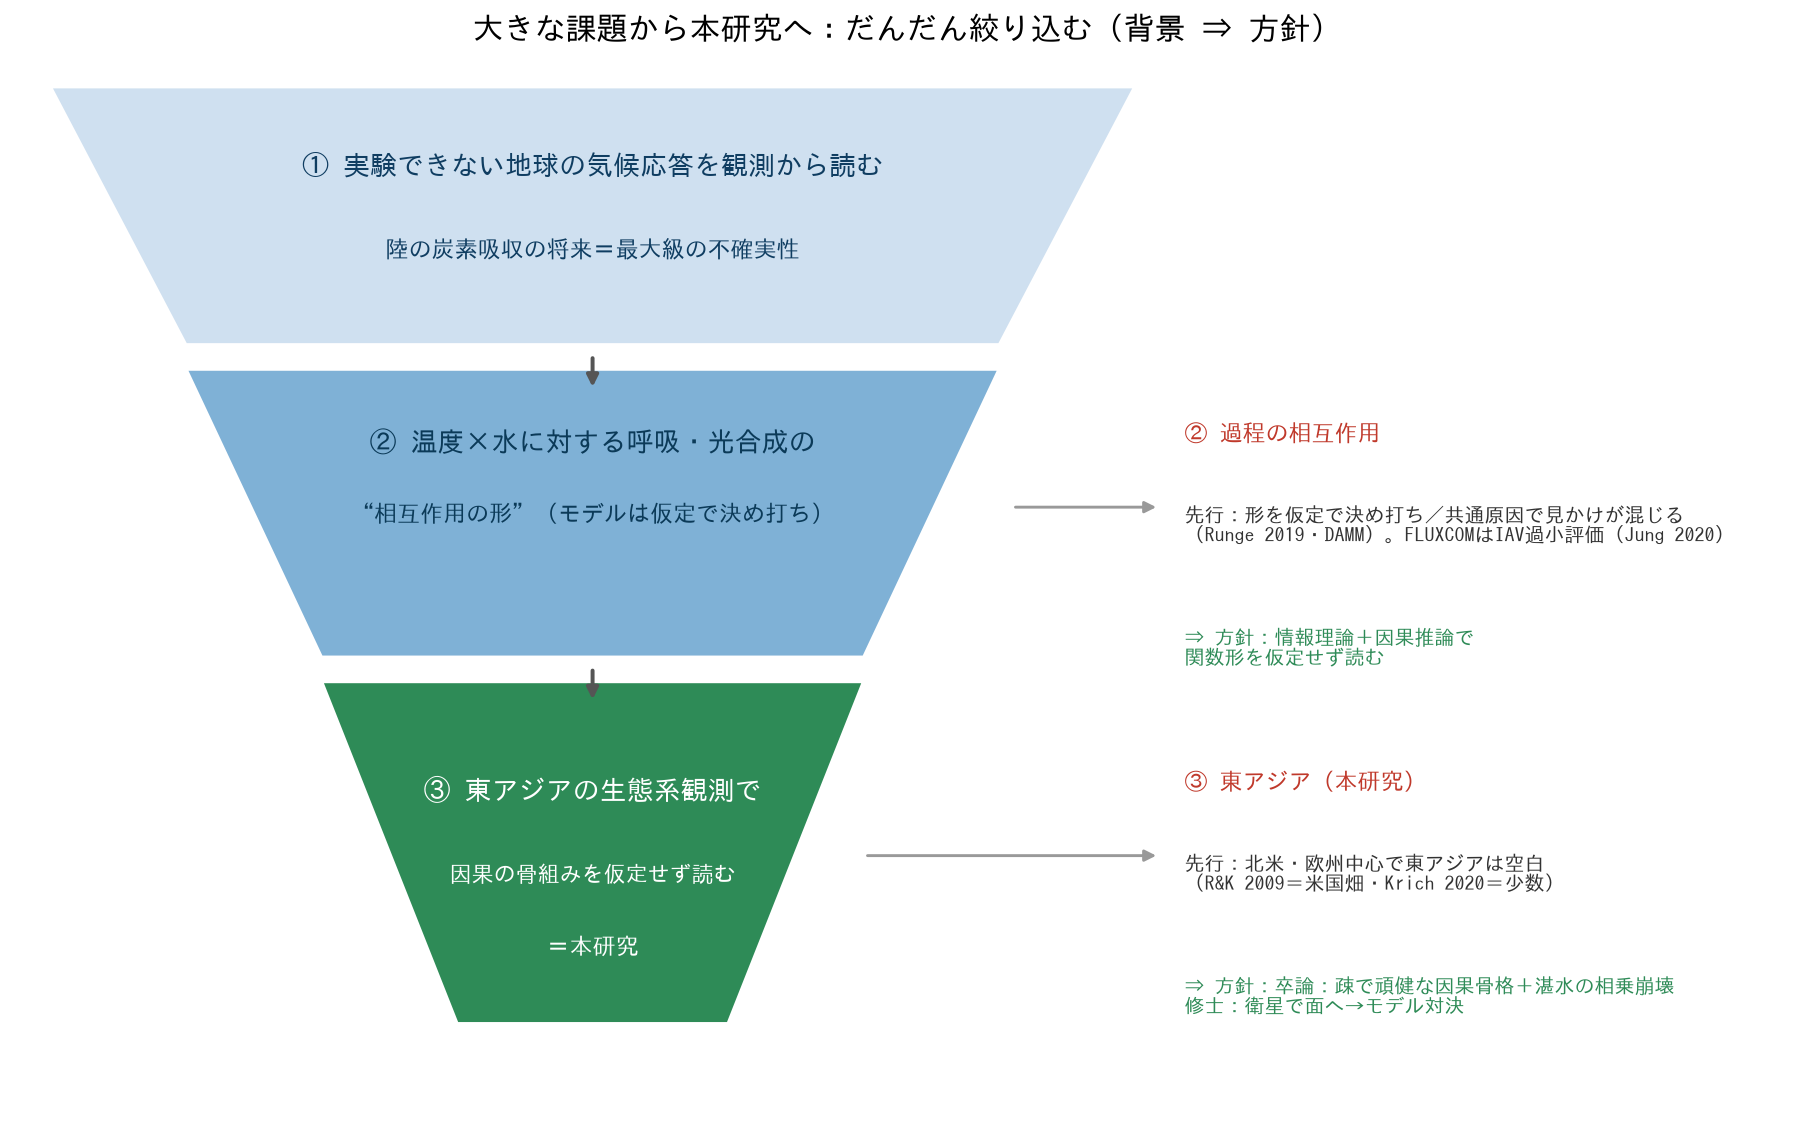
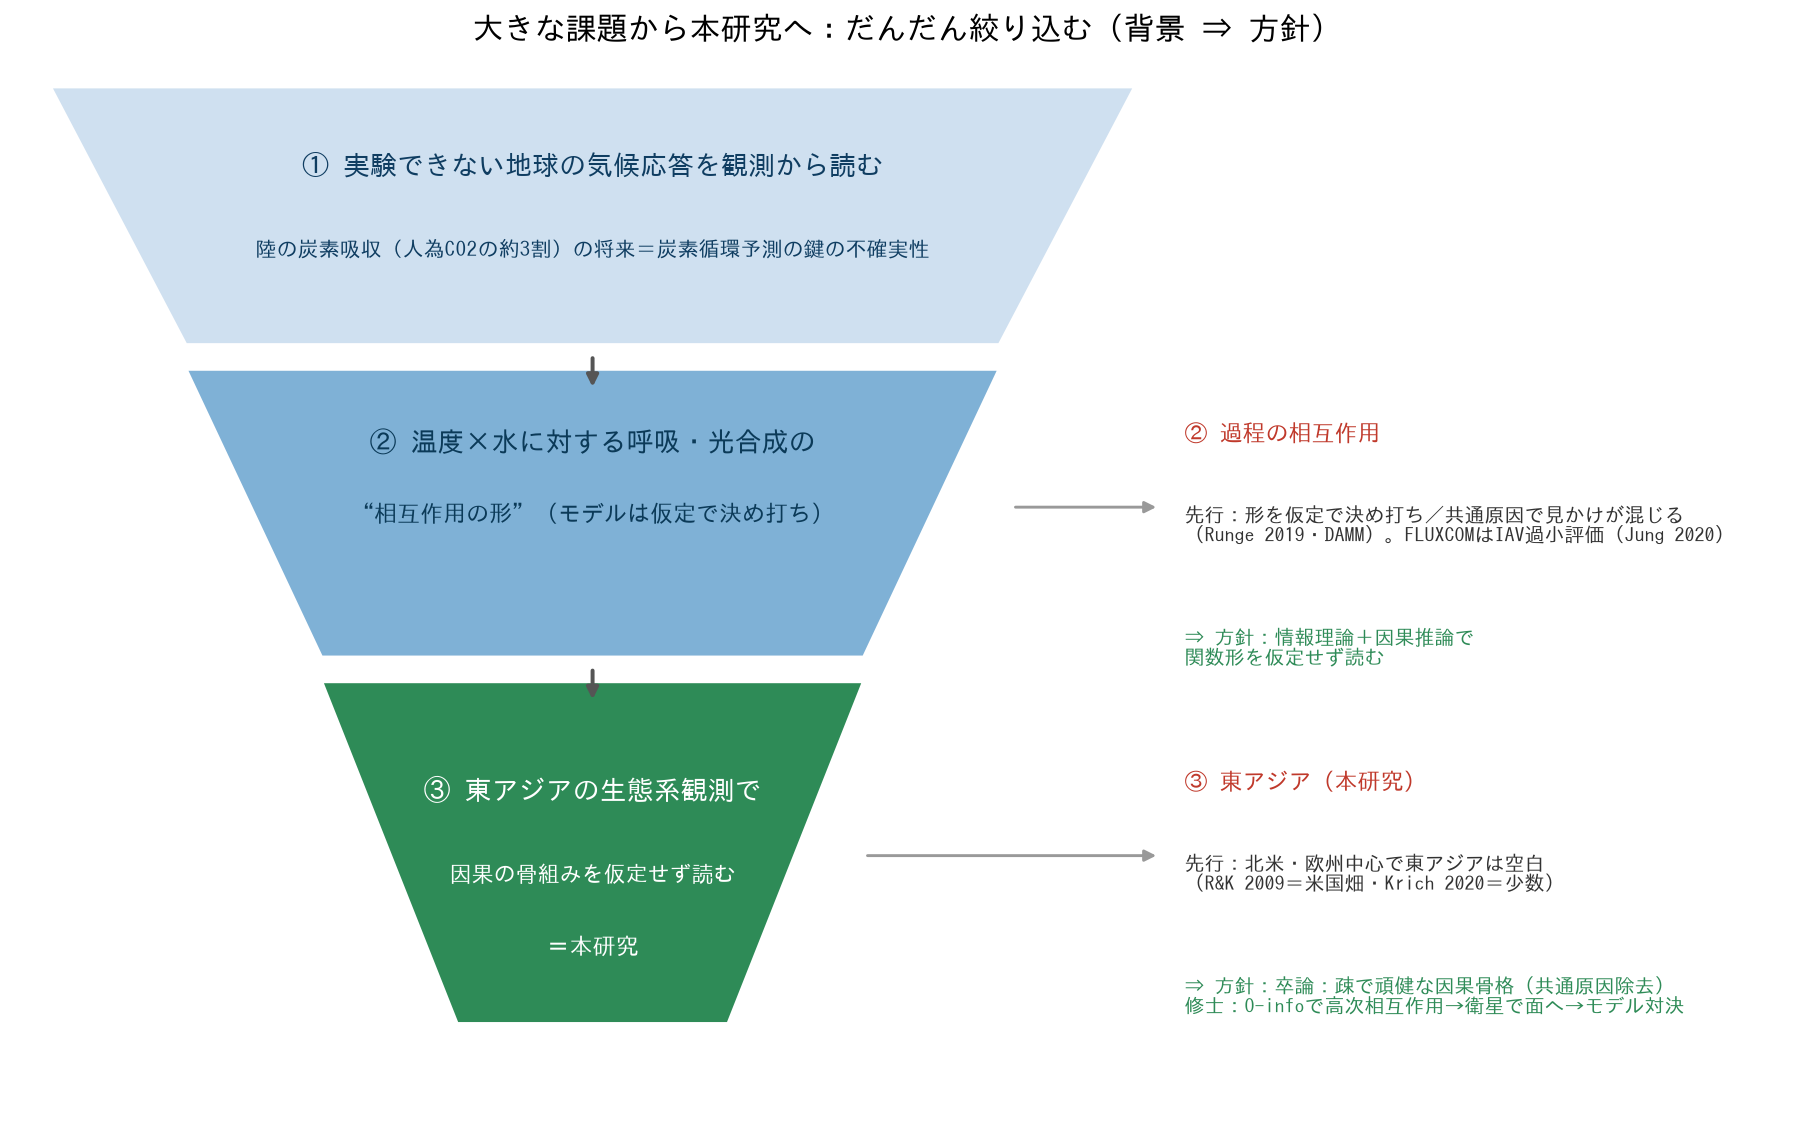
陸シンク割合を確定値(GCB2024 30%/IPCC AR6 31%)に更新、IPCCの言い過ぎ(全体の最大不確実性)を厳密化、fig3の文字3倍/円小、漏斗図から水田を除去

Changed region(s): [[0.1544, 0.1834, 0.5248, 0.2445], [0.6792, 0.8559, 0.9261, 0.8865]]

diff --git a/scripts/make_slides_figs.py b/scripts/make_slides_figs.py
@@ -677,7 +677,8 @@ def fig_funnel_jp():
 
     # 段の見出し（円内テキスト）
     T(cx, 8.05, "① 実験できない地球の気候応答を観測から読む", 15, "#0f3d61")
-    T(cx, 7.35, "陸の炭素吸収の将来＝最大級の不確実性", 12.5, "#0f3d61", "normal")
+    T(cx, 7.35, "陸の炭素吸収（人為CO2の約3割）の将来＝炭素循環予測の鍵の不確実性",
+      11.5, "#0f3d61", "normal")
     T(cx, 5.75, "② 温度×水に対する呼吸・光合成の", 15, "#0b3a58")
     T(cx, 5.15, "“相互作用の形”（モデルは仮定で決め打ち）", 12.5, "#0b3a58", "normal")
     T(cx, 2.85, "③ 東アジアの生態系観測で", 15, "white")
@@ -709,7 +710,7 @@ def fig_funnel_jp():
                 arrowprops=dict(arrowstyle="-|>", color="#999", lw=1.6))
     note(2.2, "③ 東アジア（本研究）",
          "北米・欧州中心で東アジアは空白\n（R&K 2009＝米国畑・Krich 2020＝少数）",
-         "卒論：疎で頑健な因果骨格＋湛水の相乗崩壊\n修士：衛星で面へ→モデル対決")
+         "卒論：疎で頑健な因果骨格（共通原因除去）\n修士：O-infoで高次相互作用→衛星で面へ→モデル対決")
 
     ax.set_title("大きな課題から本研究へ：だんだん絞り込む（背景 ⇒ 方針）",
                  fontproperties=JP, fontsize=17)

diff --git a/japanflux_pn/INTRO_ABC.md b/japanflux_pn/INTRO_ABC.md
@@ -9,14 +9,22 @@
 
 ## 0. 一番上のストーリー（IPCC を土台に）— 陸のシンクの将来が最大級の不確実性
 
-**大前提（IPCC / Global Carbon Budget）**
-- 人類が出す CO₂ のかなりの部分を、**陸の生態系が吸収**して気候変動を和らげている
-  （陸域は人為 CO₂ 排出の**約3割規模**を吸収する巨大なシンク；IPCC AR6 WG1 第5章 / Global Carbon Budget
-  ⚠正確な割合・期間は一次資料で確定）。
-- だが **この"陸のシンク"が将来も続くのか、放出源に転じるのかは、気候予測で最大級の不確実性**。
-  IPCC AR6 は**カーボン–気候フィードバックを主要な不確実性源**と位置づける（WG1 SPM/第5章）。定量では
-  **陸のフィードバックが −45.1 ± 50.6 PgC °C⁻¹（海の約3倍・ばらつき桁違い）**（Arora et al. 2020）、
-  なかでも **「光合成の温度感度が最大の不確実性」**（Booth et al. 2012）。
+**大前提（IPCC / Global Carbon Budget・確定）**
+- 人類が出す CO₂ の**約3割を陸の生態系が吸収**して気候変動を和らげている（確定）：
+  - Global Carbon Budget 2024（Friedlingstein et al. 2025, *ESSD* 17:965–1120; DOI:10.5194/essd-17-965-2025）：
+    「**The land CO₂ sink was 3.2 ± 0.9 GtC yr⁻¹ during the 2014–2023 decade (30% of total CO₂ emissions).**」
+  - IPCC AR6 WG1 第5章：2010–2019 の人為 CO₂ の分配は**大気46%・海洋23%・陸域31%**
+    （「**31% was stored by vegetation in terrestrial ecosystems**」）。
+  - ※言うときは**期間つき**で（「2014–2023 で約3割」「2010–2019 で31%」）。
+- **この"陸のシンク"が将来も続くか＝炭素循環予測の"鍵の不確実性"**（正確な位置づけに注意）：
+  - IPCC AR6 第5章：**「Changes in land carbon storage remain the key uncertainty in carbon cycle
+    projections.」**（⚠この一文は草稿PDF由来。最終版で要確認）。陸のフィードバックは定量で
+    **−45.1 ± 50.6 PgC °C⁻¹（海の約3倍・ばらつき桁違い）**（Arora et al. 2020, Abstract）、
+    なかでも**「光合成の温度感度が最大の不確実性」**（Booth et al. 2012）。
+  - **⚠正直な留保（言い過ぎ回避）**：IPCC AR6 第5章は「**2100年の大気CO₂の不確実性は、炭素–気候
+    フィードバックよりも将来の人為排出量で支配される（high confidence）**」と明記。だから
+    「炭素フィードバック＝気候予測"全体"の最大不確実性」とは**言わない**。正しくは
+    「**炭素循環の予測の中で陸の炭素貯留が鍵**、その中で陸フィードバックが海の約3倍」。
 - さらに現場では**温暖化がすでに進行**：東アジアは **0.3–0.5°C/decade で昇温**（IPCC AR6 WG1 Atlas,
   very likely）、**高温・熱波が増加**（第11章, since 1950, virtually certain）。
   ＝**生態系がストレス下でどう応答するかを、いま観測から読む必要がある。**

diff --git a/japanflux_pn/INTRO_FUNNEL.md b/japanflux_pn/INTRO_FUNNEL.md
@@ -5,14 +5,19 @@
 
 ---
 
-## ① 一番大きい問い（地球規模）— 陸炭素の将来が最大級の不確実性
+## ① 一番大きい問い（地球規模）— 陸のシンクの将来が炭素循環予測の鍵の不確実性
 **背景（確定）**
-- 地球は実験できないので、**観測から気候応答を理解・予測**するしかない。その最大級の難所が**陸の炭素吸収の将来**。
+- 地球は実験できないので、**観測から気候応答を理解・予測**するしかない。
+- **陸の生態系は人為 CO₂ の約3割を吸収**（Global Carbon Budget 2024：2014–2023 で 3.2±0.9 GtC yr⁻¹＝30%；
+  IPCC AR6 WG1 第5章：2010–2019 で 31%）。**この陸のシンクの将来が炭素循環予測の鍵の不確実性**。
 - カーボン–気候フィードバックは陸が **−45.1 ± 50.6 PgC °C⁻¹**（海の約3倍・ばらつき桁違い）
-  （Arora et al. 2020, *Biogeosciences*, DOI:10.5194/bg-17-4173-2020）。
+  （Arora et al. 2020, Abstract; DOI:10.5194/bg-17-4173-2020）。
 - なかでも **「光合成代謝の温度感度が最大の不確実性」**
   （Booth et al. 2012, *ERL*, DOI:10.1088/1748-9326/7/2/024002：“The sensitivity of photosynthetic
   metabolism to temperature emerges as the most important uncertainty.”）。
+- **⚠留保**：IPCC AR6 第5章は「2100年の大気CO₂の不確実性は**炭素–気候フィードバックより将来の人為排出量が
+  支配（high confidence）**」とも述べる。よって「気候予測"全体"の最大不確実性」とは言わず、
+  「**炭素循環予測の中で陸が鍵**」と述べる。
 
 **まだ大きすぎる → 何が不確実かを絞る ↓**
 
@@ -60,7 +65,8 @@
 ---
 
 ## 背骨の一文（コピペ可）
-> ①実験できない地球の気候応答＝**陸炭素の将来が最大の不確実性**（Arora2020, Booth2012）。
+> ①実験できない地球の気候応答＝**陸のシンク（人為CO2の約3割）の将来が炭素循環予測の鍵の不確実性**
+> （GCB2024・IPCC AR6 Ch5・Arora2020・Booth2012）。
 > ②その核心は**温度×水に対する呼吸・光合成の"相互作用の形"**だが、モデルは仮定で決め打ちし、
 > 観測からは共通原因の"見かけ"が邪魔をする（Runge2019）。FLUXCOMのIAV過小評価（Jung2020/2017）が
 > 取りこぼしの証拠。⇒**情報理論＋因果推論で関数形を仮定せず読む**。

diff --git a/japanflux_pn/STORY_IMPACT_SATELLITE.md b/japanflux_pn/STORY_IMPACT_SATELLITE.md
@@ -18,9 +18,12 @@
 
 ### 層1：地球科学の大目標（誰もが共感する上位課題）
 - 実験できない地球が、温暖化・人間活動にどう応答するかを**観測から理解・予測**する。
-- その最大級の不確実性が**陸の炭素吸収の将来**：陸のカーボン–気候フィードバックは
+- **陸の生態系は人為CO₂の約3割を吸収**（GCB2024：2014–2023で30%／IPCC AR6 WG1 Ch5：2010–2019で31%）。
+  **この陸のシンクの将来が"炭素循環予測の鍵の不確実性"**：陸のカーボン–気候フィードバックは
   **−45.1 ± 50.6 PgC °C⁻¹**（海の約3倍、ばらつきも桁違い）（Arora et al. 2020）。
   なかでも**光合成代謝の温度感度が最大の不確実要素**（Booth et al. 2012）。
+  ※IPCC AR6 Ch5 は「2100年CO₂の不確実性は炭素–気候フィードバックより人為排出量が支配（high confidence）」
+  とも述べる＝「気候予測"全体"の最大不確実性」とは言わず「炭素循環の中で陸が鍵」と述べる。
 - この不確実性の根は「**呼吸・光合成が温度と水にどう応答し、どう組み合わさるか（過程の相互作用の形）**」。
   → 本研究の情報・因果解析は、まさにこの"組み合わさり方"を観測から読む道具。
 
